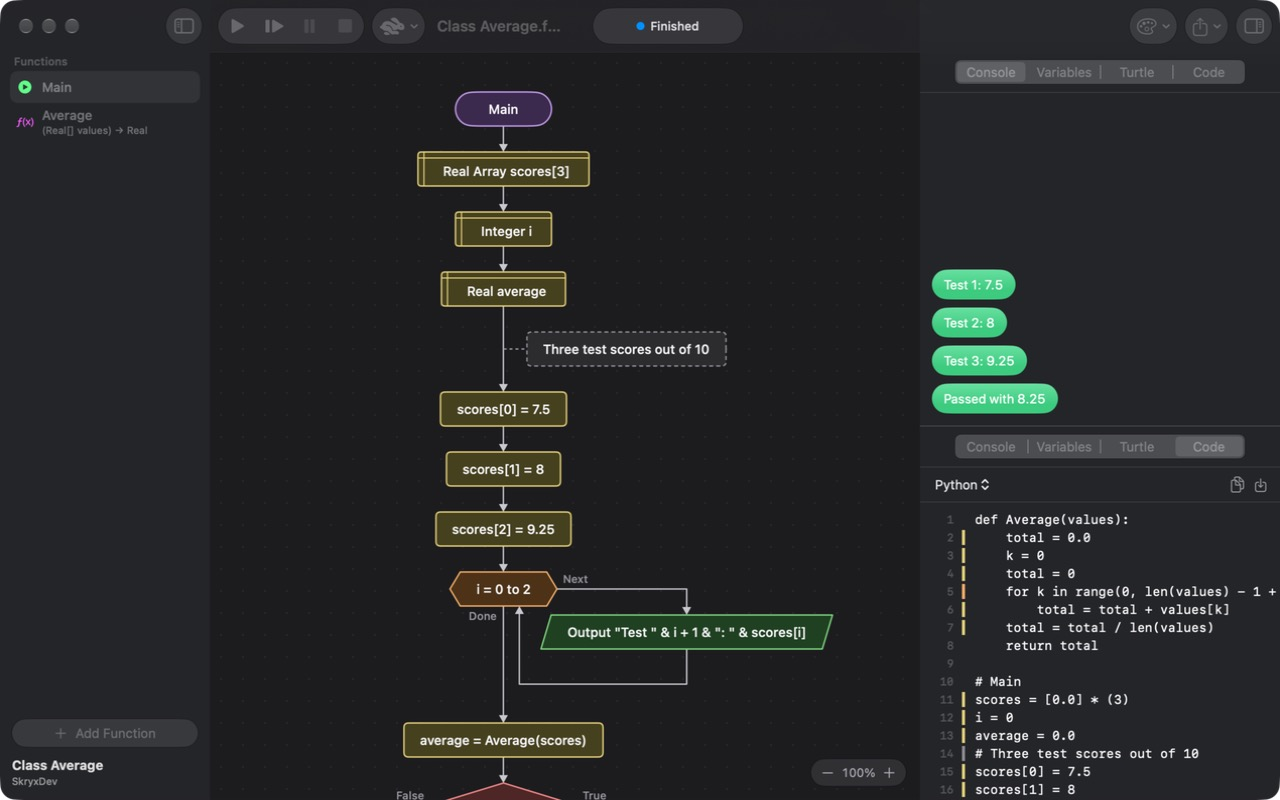
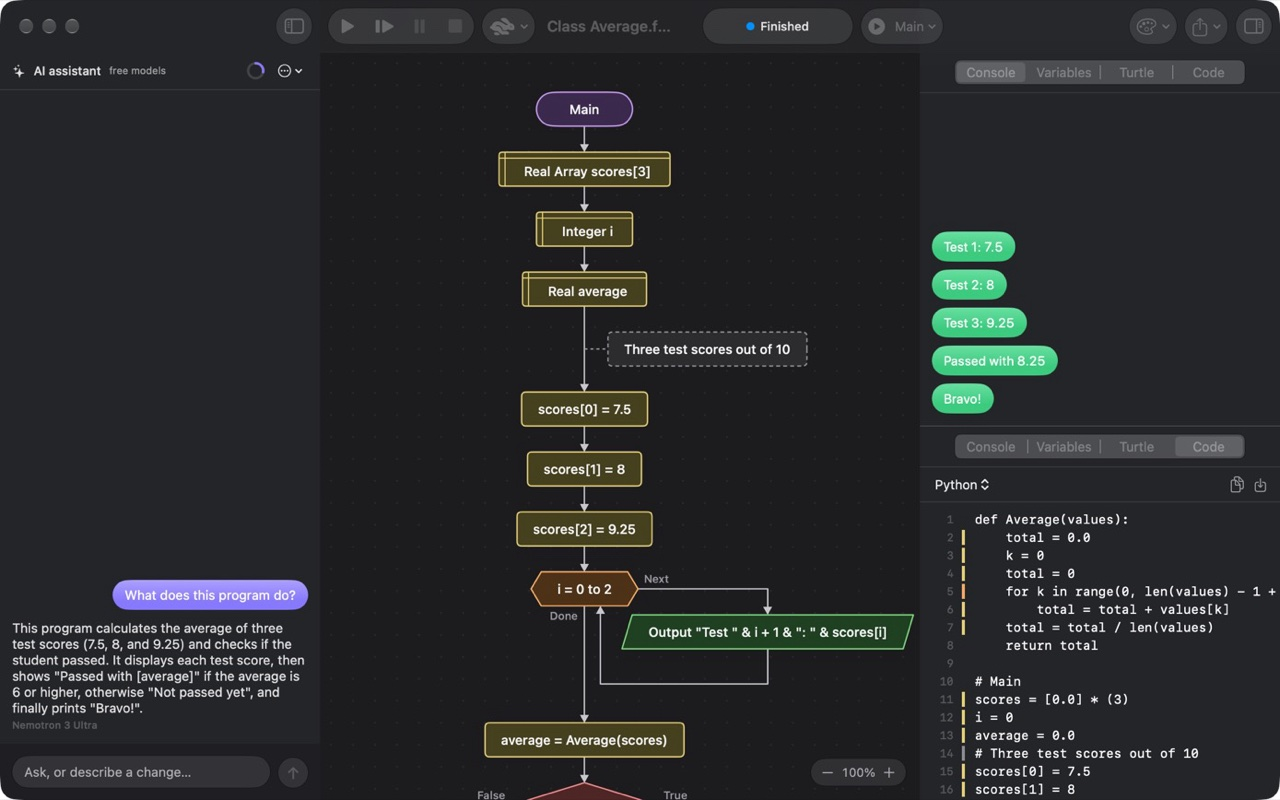
Show the AI assistant and the functions menu in the README screenshot

diff --git a/README.md b/README.md
@@ -20,7 +20,7 @@
 </p>
 
 <p align="center">
-  <img src="docs/screenshot.jpg" width="900" alt="A flowchart that averages three test scores, with its console output and the Python code generated from it">
+  <img src="docs/screenshot.jpg" width="900" alt="A flowchart that averages three test scores, with the AI assistant explaining it, its console output and the Python code generated from it">
 </p>
 
 ---
